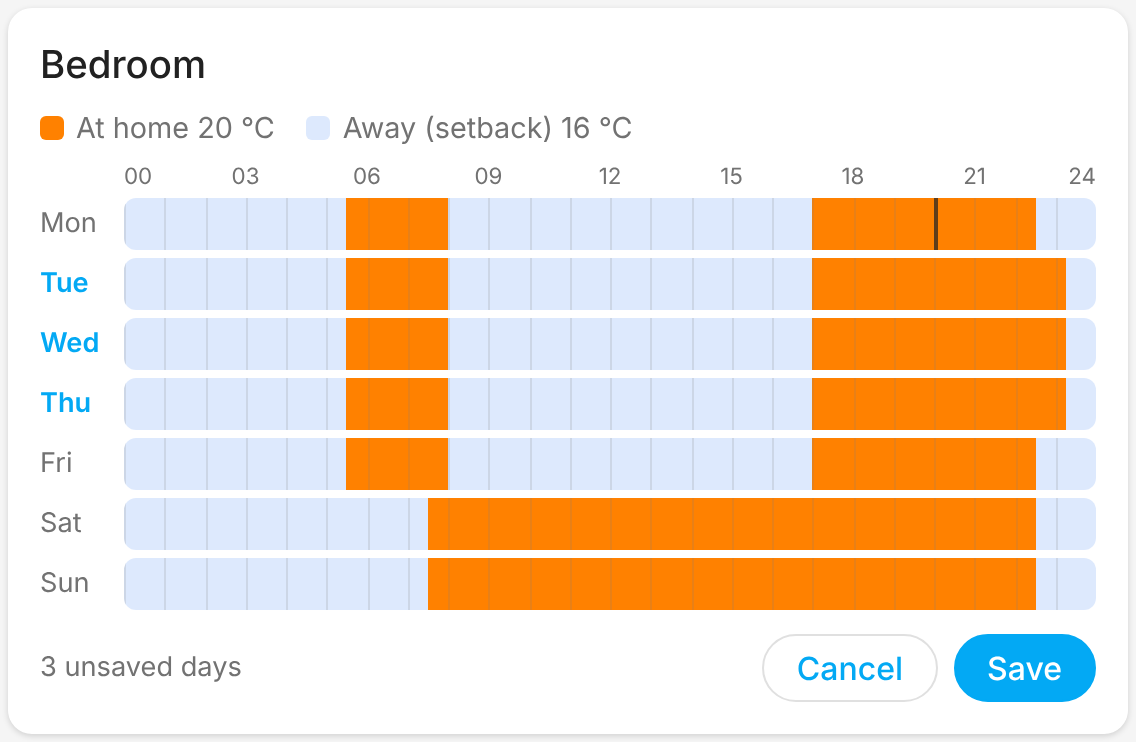
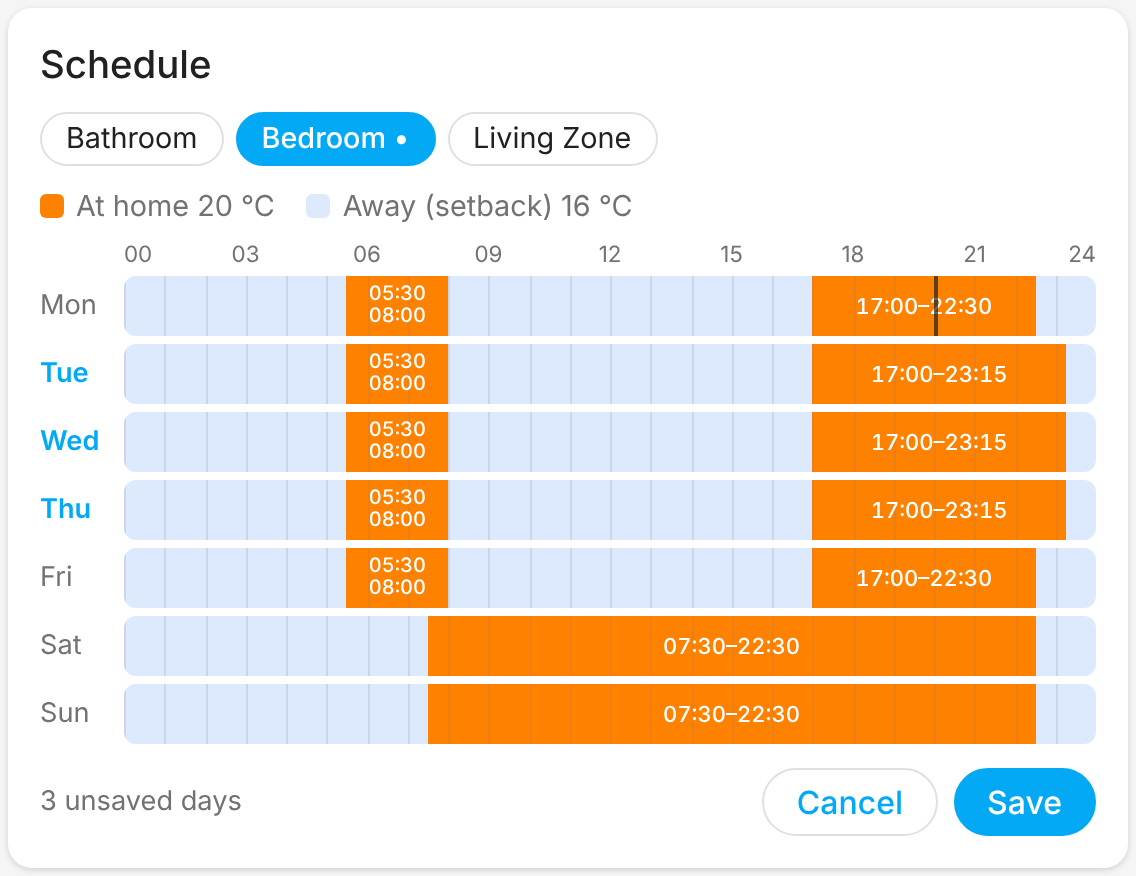
Schedule card: tabs for several thermostats and times in each block
Without entities the card shows every Danfoss Link thermostat, one tab per
room, with the living zone's rooms sharing one tab. Each at-home block shows
its start and end time, updated while dragging.

Claude-Session: https://claude.ai/code/session_0167a6UkpoCcEPyvAPdvG6Es

Changed region(s): [[0.0308, 0.062, 0.9859, 0.9609]]

diff --git a/custom_components/danfoss_link/frontend/danfoss-link-schedule-card.js b/custom_components/danfoss_link/frontend/danfoss-link-schedule-card.js
@@ -20,9 +20,11 @@ const TEXT = {
     cancel: "Cancel",
     saving: "Saving…",
     hint: "Drag over the grid to paint at home or away. Drag down to change several days.",
-    living: "Part of the living zone: saving changes the schedule of every room in the zone.",
+    living: "The living zone's rooms share this schedule:",
+    living_zone: "Living Zone",
+    title: "Schedule",
     no_schedule: "This thermostat has no schedule (yet). It is read from the CC once an hour.",
-    pick_entity: "Choose a Danfoss Link thermostat in the card settings.",
+    pick_entity: "No Danfoss Link thermostats found. Choose them in the card settings.",
     error: "Could not save",
     changed: "unsaved days",
   },
@@ -33,9 +35,11 @@ const TEXT = {
     cancel: "Fortryd",
     saving: "Gemmer…",
     hint: "Træk hen over skemaet for at male hjemme eller ude. Træk nedad for at ændre flere dage.",
-    living: "Rummet er i Living Zone: når du gemmer, ændres skemaet for alle rum i zonen.",
+    living: "Living Zone-rummene deler dette skema:",
+    living_zone: "Living Zone",
+    title: "Ugeprogram",
     no_schedule: "Termostaten har ikke noget skema (endnu). Det hentes fra CC'en én gang i timen.",
-    pick_entity: "Vælg en Danfoss Link-termostat i kortets indstillinger.",
+    pick_entity: "Ingen Danfoss Link-termostater fundet. Vælg dem i kortets indstillinger.",
     error: "Kunne ikke gemme",
     changed: "dage ikke gemt",
   },
@@ -56,6 +60,36 @@ function parseDay(periods) {
 function clock(slot) {
   const minutes = slot * 15;
   return `${String(Math.floor(minutes / 60)).padStart(2, "0")}:${String(minutes % 60).padStart(2, "0")}`;
+}
+
+// [start, end) slot ranges that are at home.
+function blocks(slots) {
+  const result = [];
+  let start = null;
+  for (let i = 0; i <= SLOTS; i++) {
+    const on = i < SLOTS && slots[i];
+    if (on && start === null) start = i;
+    if (!on && start !== null) {
+      result.push([start, i]);
+      start = null;
+    }
+  }
+  return result;
+}
+
+// Start and end time written in each at-home block; stacked when it is short.
+function labels(slots) {
+  return blocks(slots)
+    .map(([start, end]) => {
+      const left = (start / SLOTS) * 100;
+      const width = ((end - start) / SLOTS) * 100;
+      const wide = end - start >= 16;
+      const text = wide
+        ? `${clock(start)}–${clock(end)}`
+        : `<span>${clock(start)}</span><span>${clock(end)}</span>`;
+      return `<div class="label${wide ? "" : " stacked"}" style="left:${left}%;width:${width}%">${text}</div>`;
+    })
+    .join("");
 }
 
 function formatDay(slots) {
@@ -80,33 +114,81 @@ function makeCard() {
       return {
         schema: [
           {
-            name: "entity",
-            required: true,
-            selector: { entity: { filter: { domain: "climate", integration: "danfoss_link" } } },
+            name: "entities",
+            selector: {
+              entity: { multiple: true, filter: { domain: "climate", integration: "danfoss_link" } },
+            },
           },
           { name: "title", selector: { text: {} } },
         ],
       };
     }
 
-    static getStubConfig(hass) {
-      const entity = Object.keys(hass.states).find(
-        (id) => id.startsWith("climate.") && hass.states[id].attributes.schedule
-      );
-      return { entity: entity || "" };
+    static getStubConfig() {
+      // No entities: every Danfoss Link thermostat, one tab each.
+      return {};
     }
 
     setConfig(config) {
       this._config = config;
-      this._draft = null;
+      this._drafts = {};
       this._render();
     }
 
     set hass(hass) {
-      const old = this._hass && this._config && this._hass.states[this._config.entity];
+      const old = this._hass;
       this._hass = hass;
-      const state = this._config && hass.states[this._config.entity];
-      if (!this._root || state !== old) this._render();
+      const changed =
+        !old || this._tabs().some((tab) => tab.entities.some((id) => old.states[id] !== hass.states[id]));
+      if (!this._root || changed) this._render();
+    }
+
+    // Unsaved edits, per tab.
+    get _draft() {
+      return (this._drafts && this._drafts[this._entity]) || null;
+    }
+
+    set _draft(value) {
+      this._drafts = this._drafts || {};
+      if (value) this._drafts[this._entity] = value;
+      else delete this._drafts[this._entity];
+    }
+
+    _entityIds() {
+      const config = this._config || {};
+      if (config.entities && config.entities.length) {
+        return config.entities.map((e) => (typeof e === "string" ? e : e.entity));
+      }
+      if (config.entity) return [config.entity];
+      // Every thermostat with a Danfoss Link schedule.
+      return Object.keys((this._hass && this._hass.states) || {})
+        .filter((id) => id.startsWith("climate.") && this._hass.states[id].attributes.schedule)
+        .sort((a, b) => this._name(a).localeCompare(this._name(b)));
+    }
+
+    _name(id) {
+      const state = this._hass && this._hass.states[id];
+      return (state && state.attributes.friendly_name) || id;
+    }
+
+    // One tab per room; living-zone rooms share a schedule, so they share a tab.
+    _tabs() {
+      if (!this._config || !this._hass) return [];
+      const tabs = [];
+      let living = null;
+      for (const id of this._entityIds()) {
+        const state = this._hass.states[id];
+        if (state && state.attributes.zone === "Living") {
+          if (!living) {
+            living = { entity: id, label: this._t("living_zone"), entities: [] };
+            tabs.push(living);
+          }
+          living.entities.push(id);
+        } else {
+          tabs.push({ entity: id, label: this._name(id), entities: [id] });
+        }
+      }
+      return tabs;
     }
 
     getCardSize() {
@@ -130,7 +212,7 @@ function makeCard() {
     }
 
     _saved() {
-      const state = this._hass && this._hass.states[this._config.entity];
+      const state = this._hass && this._hass.states[this._entity];
       const schedule = state && state.attributes.schedule;
       if (!schedule) return null;
       return Object.fromEntries(DAYS.map((d) => [d, parseDay(schedule[d])]));
@@ -154,15 +236,31 @@ function makeCard() {
       if (!this._root) {
         this._root = this.attachShadow({ mode: "open" });
       }
-      const state = this._hass.states[this._config.entity];
+      const tabs = this._tabs();
+      let tab = tabs.find((t) => t.entity === this._entity);
+      if (!tab) tab = tabs[0];
+      this._entity = tab && tab.entity;
+      const state = this._entity && this._hass.states[this._entity];
       const week = state && this._week();
       const attrs = (state && state.attributes) || {};
-      const title = this._config.title || attrs.friendly_name || this._config.entity || "";
+      const title =
+        this._config.title || (tabs.length === 1 ? tab.label : this._t("title"));
+      const tabBar =
+        tabs.length > 1
+          ? `<div class="tabs">${tabs
+              .map(
+                (t) =>
+                  `<button class="tab${t === tab ? " selected" : ""}${this._drafts[t.entity] ? " dirty" : ""}" data-entity="${t.entity}">${t.label}</button>`
+              )
+              .join("")}</div>`
+          : "";
       const unit = (this._hass.config && this._hass.config.unit_system && this._hass.config.unit_system.temperature) || "°C";
-      const temp = (v) => (v === undefined || v === null ? "" : ` ${v} ${unit}`);
+      // Living-zone rooms have their own temperatures, so leave them out there.
+      const temp = (v) =>
+        v === undefined || v === null || (tab && tab.entities.length > 1) ? "" : ` ${v} ${unit}`;
 
       let body;
-      if (!this._config.entity || !state) {
+      if (!state) {
         body = `<div class="note">${this._t("pick_entity")}</div>`;
       } else if (!week) {
         body = `<div class="note">${this._t("no_schedule")}</div>`;
@@ -180,7 +278,7 @@ function makeCard() {
           const periods = formatDay(week[day]).join(", ") || "–";
           return `
             <div class="day${changed.includes(day) ? " changed" : ""}">${this._weekdayName(day)}</div>
-            <div class="track" title="${periods}">${cells}${marker}</div>`;
+            <div class="track" title="${periods}">${cells}<div class="labels" data-day="${day}">${labels(week[day])}</div>${marker}</div>`;
         }).join("");
         const ticks = [0, 3, 6, 9, 12, 15, 18, 21, 24]
           .map((h) => `<span style="left:${(h / 24) * 100}%">${String(h).padStart(2, "0")}</span>`)
@@ -194,7 +292,11 @@ function makeCard() {
             <div></div><div class="ticks">${ticks}</div>
             ${rows}
           </div>
-          ${attrs.zone === "Living" ? `<div class="note">${this._t("living")}</div>` : ""}
+          ${
+            attrs.zone === "Living"
+              ? `<div class="note">${this._t("living")} ${tab.entities.map((id) => this._name(id)).join(", ")}.</div>`
+              : ""
+          }
           ${
             changed.length
               ? `<div class="actions">
@@ -211,9 +313,17 @@ function makeCard() {
         <style>${STYLE}</style>
         <ha-card>
           <div class="header">${title}</div>
+          ${tabBar}
           <div class="content">${body}</div>
         </ha-card>`;
 
+      for (const button of this._root.querySelectorAll(".tab")) {
+        button.addEventListener("click", () => {
+          this._entity = button.dataset.entity;
+          this._error = null;
+          this._render();
+        });
+      }
       const grid = this._root.querySelector(".grid");
       if (grid) grid.addEventListener("pointerdown", (ev) => this._start(ev));
       const save = this._root.querySelector(".save");
@@ -273,6 +383,9 @@ function makeCard() {
       for (const cell of this._root.querySelectorAll(".cell")) {
         cell.classList.toggle("on", draft[cell.dataset.day][+cell.dataset.slot]);
       }
+      for (const box of this._root.querySelectorAll(".labels")) {
+        box.innerHTML = labels(draft[box.dataset.day]);
+      }
     }
 
     async _save() {
@@ -292,7 +405,7 @@ function makeCard() {
       try {
         for (const data of groups.values()) {
           await this._hass.callService("danfoss_link", "set_schedule", data, {
-            entity_id: this._config.entity,
+            entity_id: this._entity,
           });
         }
         this._draft = null;
@@ -310,6 +423,10 @@ const STYLE = `
   ha-card { overflow: hidden; }
   .header { padding: 16px 16px 0; font-size: 1.2em; font-weight: 500; color: var(--primary-text-color); }
   .content { padding: 12px 16px 16px; color: var(--primary-text-color); }
+  .tabs { display: flex; gap: 6px; flex-wrap: wrap; padding: 12px 16px 0; }
+  .tab { border-radius: 16px; padding: 4px 12px; font-size: 0.9em; color: var(--primary-text-color); font-weight: 400; }
+  .tab.selected { background: var(--primary-color); border-color: var(--primary-color); color: var(--text-primary-color, #fff); font-weight: 500; }
+  .tab.dirty::after { content: " •"; }
   .legend { display: flex; gap: 16px; flex-wrap: wrap; font-size: 0.9em; margin-bottom: 8px; color: var(--secondary-text-color); }
   .swatch { display: inline-block; width: 12px; height: 12px; border-radius: 3px; margin-right: 6px; vertical-align: -1px;
             background: var(--dl-away, rgba(66,133,244,0.18)); }
@@ -322,10 +439,15 @@ const STYLE = `
   .ticks span:last-child { transform: translateX(-100%); }
   .day { font-size: 0.85em; color: var(--secondary-text-color); text-transform: capitalize; min-width: 2.5em; }
   .day.changed { color: var(--primary-color); font-weight: 600; }
-  .track { position: relative; display: grid; grid-template-columns: repeat(96, 1fr); height: 26px;
+  .track { position: relative; display: grid; grid-template-columns: repeat(96, 1fr); height: 30px;
            border-radius: 6px; overflow: hidden; background: var(--dl-away, rgba(66,133,244,0.18)); cursor: crosshair; }
   .cell { background: transparent; }
   .cell.hour { box-shadow: inset 1px 0 0 rgba(127,127,127,0.18); }
+  .labels { position: absolute; inset: 0; pointer-events: none; }
+  .label { position: absolute; top: 0; bottom: 0; display: flex; align-items: center; justify-content: center;
+           overflow: hidden; white-space: nowrap; font-size: 11px; font-weight: 500; line-height: 1.1;
+           color: var(--dl-home-text, #fff); font-variant-numeric: tabular-nums; }
+  .label.stacked { flex-direction: column; font-size: 10px; }
   .now { position: absolute; top: 0; bottom: 0; width: 2px; background: var(--primary-text-color); opacity: 0.7; pointer-events: none; }
   .note, .hint { margin-top: 10px; font-size: 0.85em; color: var(--secondary-text-color); }
   .error { margin-top: 10px; color: var(--error-color, #db4437); font-size: 0.9em; }

diff --git a/docs/features.md b/docs/features.md
@@ -58,17 +58,23 @@ data:
 ### Schedule card
 
 The integration also brings a dashboard card for the schedule; nothing extra
-to install. Edit a dashboard, add a card and pick **Danfoss Link schedule**
-(or use `type: custom:danfoss-link-schedule-card` with `entity:` set to a
-thermostat). Drag over the grid to paint *at home* or *away*; drag down to
-change several days at once. **Save** sends the changed days with the
-`set_schedule` action.
+to install. Edit a dashboard, add a card and pick **Danfoss Link schedule**.
+By default it shows every Danfoss Link thermostat, one tab per room; the
+living zone's rooms share one tab, as they share one schedule. Pick
+thermostats in the card settings to show only those.
+
+Each *at home* block shows its start and end time. Drag over the grid to
+paint *at home* or *away*; drag down to change several days at once.
+**Save** sends the changed days with the `set_schedule` action.
 
 ![Schedule card](images/schedule-card.png)
 
 ```yaml
 type: custom:danfoss-link-schedule-card
-entity: climate.bedroom
+# Optional; leave out for every Danfoss Link thermostat.
+entities:
+  - climate.bedroom
+  - climate.bathroom
 ```
 
 Diagnostic entities marked *disabled by default* can be turned on under the

diff --git a/CHANGELOG.md b/CHANGELOG.md
@@ -8,7 +8,7 @@ release PR to `main` is merged.
 
 ### New
 - **Set schedule** action (`danfoss_link.set_schedule`): change a room's weekly schedule from Home Assistant. Give the weekdays and the *at home* periods (e.g. `06:00-08:00`, `16:00-22:30`); the rest of the day is away (setback). A room in the living zone changes the whole zone's schedule.
-- **Schedule card** for dashboards (`custom:danfoss-link-schedule-card`), included with the integration: see a room's week at a glance and drag to change at home and away periods.
+- **Schedule card** for dashboards (`custom:danfoss-link-schedule-card`), included with the integration: see each room's week at a glance with its times, one tab per room (the living zone shares one), and drag to change at home and away periods.
 
 ### Fixes
 - A room you switch to Manual and then back to Schedule while the house is *At home* now gets its at-home temperature again. Before, the Danfoss controller quietly left that room out of *At home*, so it heated to its away temperature even though the house said At home.
